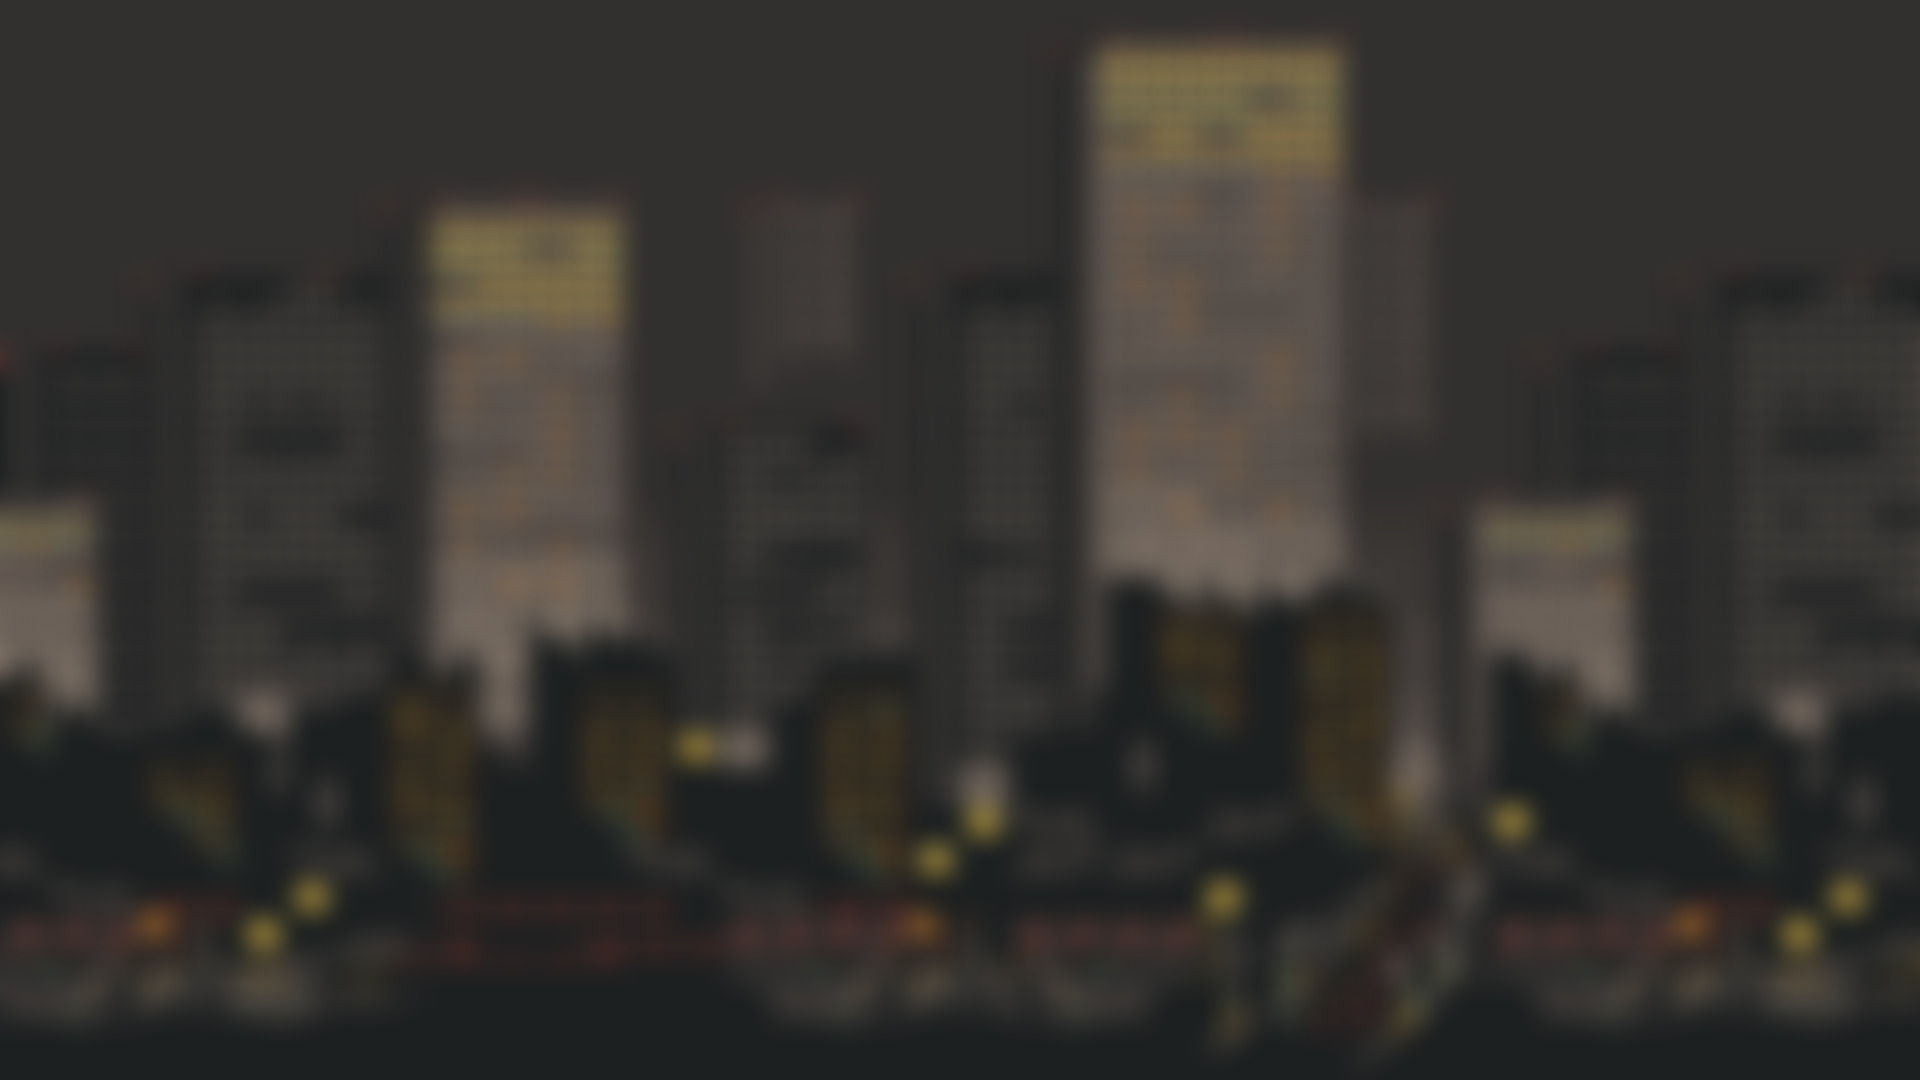
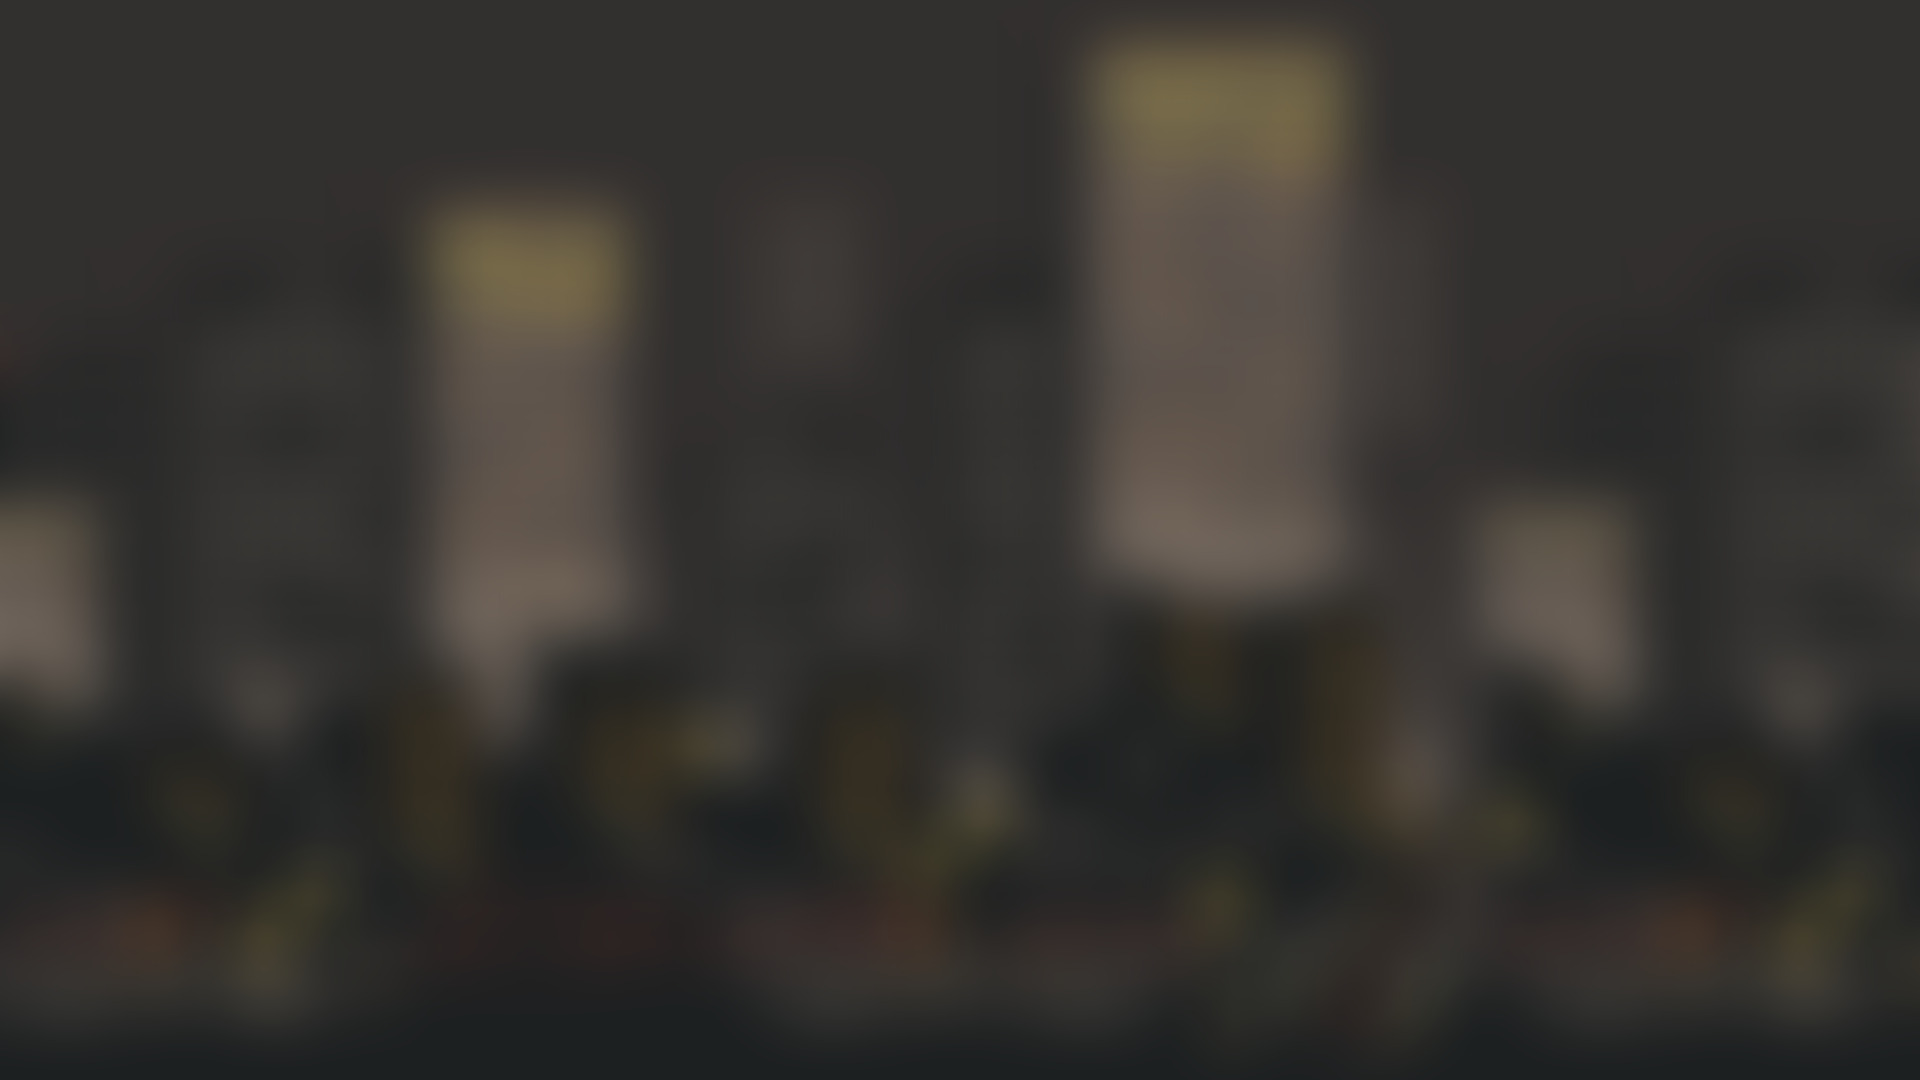
changed color scheme

diff --git a/css/style.css b/css/style.css
@@ -28,23 +28,23 @@
     /* rgba(255, 255, 255, 0.7), */
     /* rgba(255, 255, 255, 0.7) */
   /* ); Filter color */
-  --accent: #8EC3D1; /* Hover color #4b8ec4 */
-  --bg: #19171a; /* Background color */
-  --sbg: #2e3440e3; /* Cards color #201e2160*/
-  --fg: #d8dee9; /* Foreground color */
-  --sfg: #3a3a3a; /* Secondary Foreground color */
-  --imgcol: linear-gradient(
-    rgba(255, 255, 255, 0.05),
-    rgba(255, 255, 255, 0.05)
-  );
-}
+    --accent: #D4BE98; /* Hover color #4b8ec4 nord: #8EC3D1*/
+    --bg: #19171a; /* Background color */
+    --sbg: #3C3836e3; /* Cards color #201e2160  nord: #2e3440e3*/
+    --fg: #D4BE98; /* Foreground color nord: #d8dee9*/
+    --sfg: #3a3a3a; /* Secondary Foreground color */
+    --imgcol: linear-gradient(
+      rgba(255, 255, 255, 0.05),
+      rgba(255, 255, 255, 0.05)
+    ); /* Filter color */
+  }
 
 /* Dark theme  */
 .darktheme {
-  --accent: #8EC3D1; /* Hover color #4b8ec4 */
+  --accent: #D4BE98; /* Hover color #4b8ec4 nord: #8EC3D1*/
   --bg: #19171a; /* Background color */
-  --sbg: #2e3440e3; /* Cards color #201e2160*/
-  --fg: #d8dee9; /* Foreground color */
+  --sbg: #3C3836e3; /* Cards color #201e2160  nord: #2e3440e3*/
+  --fg: #D4BE98; /* Foreground color nord: #d8dee9*/
   --sfg: #3a3a3a; /* Secondary Foreground color */
   --imgcol: linear-gradient(
     rgba(255, 255, 255, 0.05),
@@ -52,9 +52,9 @@
   ); /* Filter color */
 }
 
-/*  makes scrollbar nord themed */
+/*  makes scrollbar themed */
 ::-webkit-scrollbar-thumb {
-  background-color: #3d4251 !important;
+  background-color: var(--fg) !important;
 }
 ::-webkit-scrollbar {
   background-color: var(--sbg) !important
